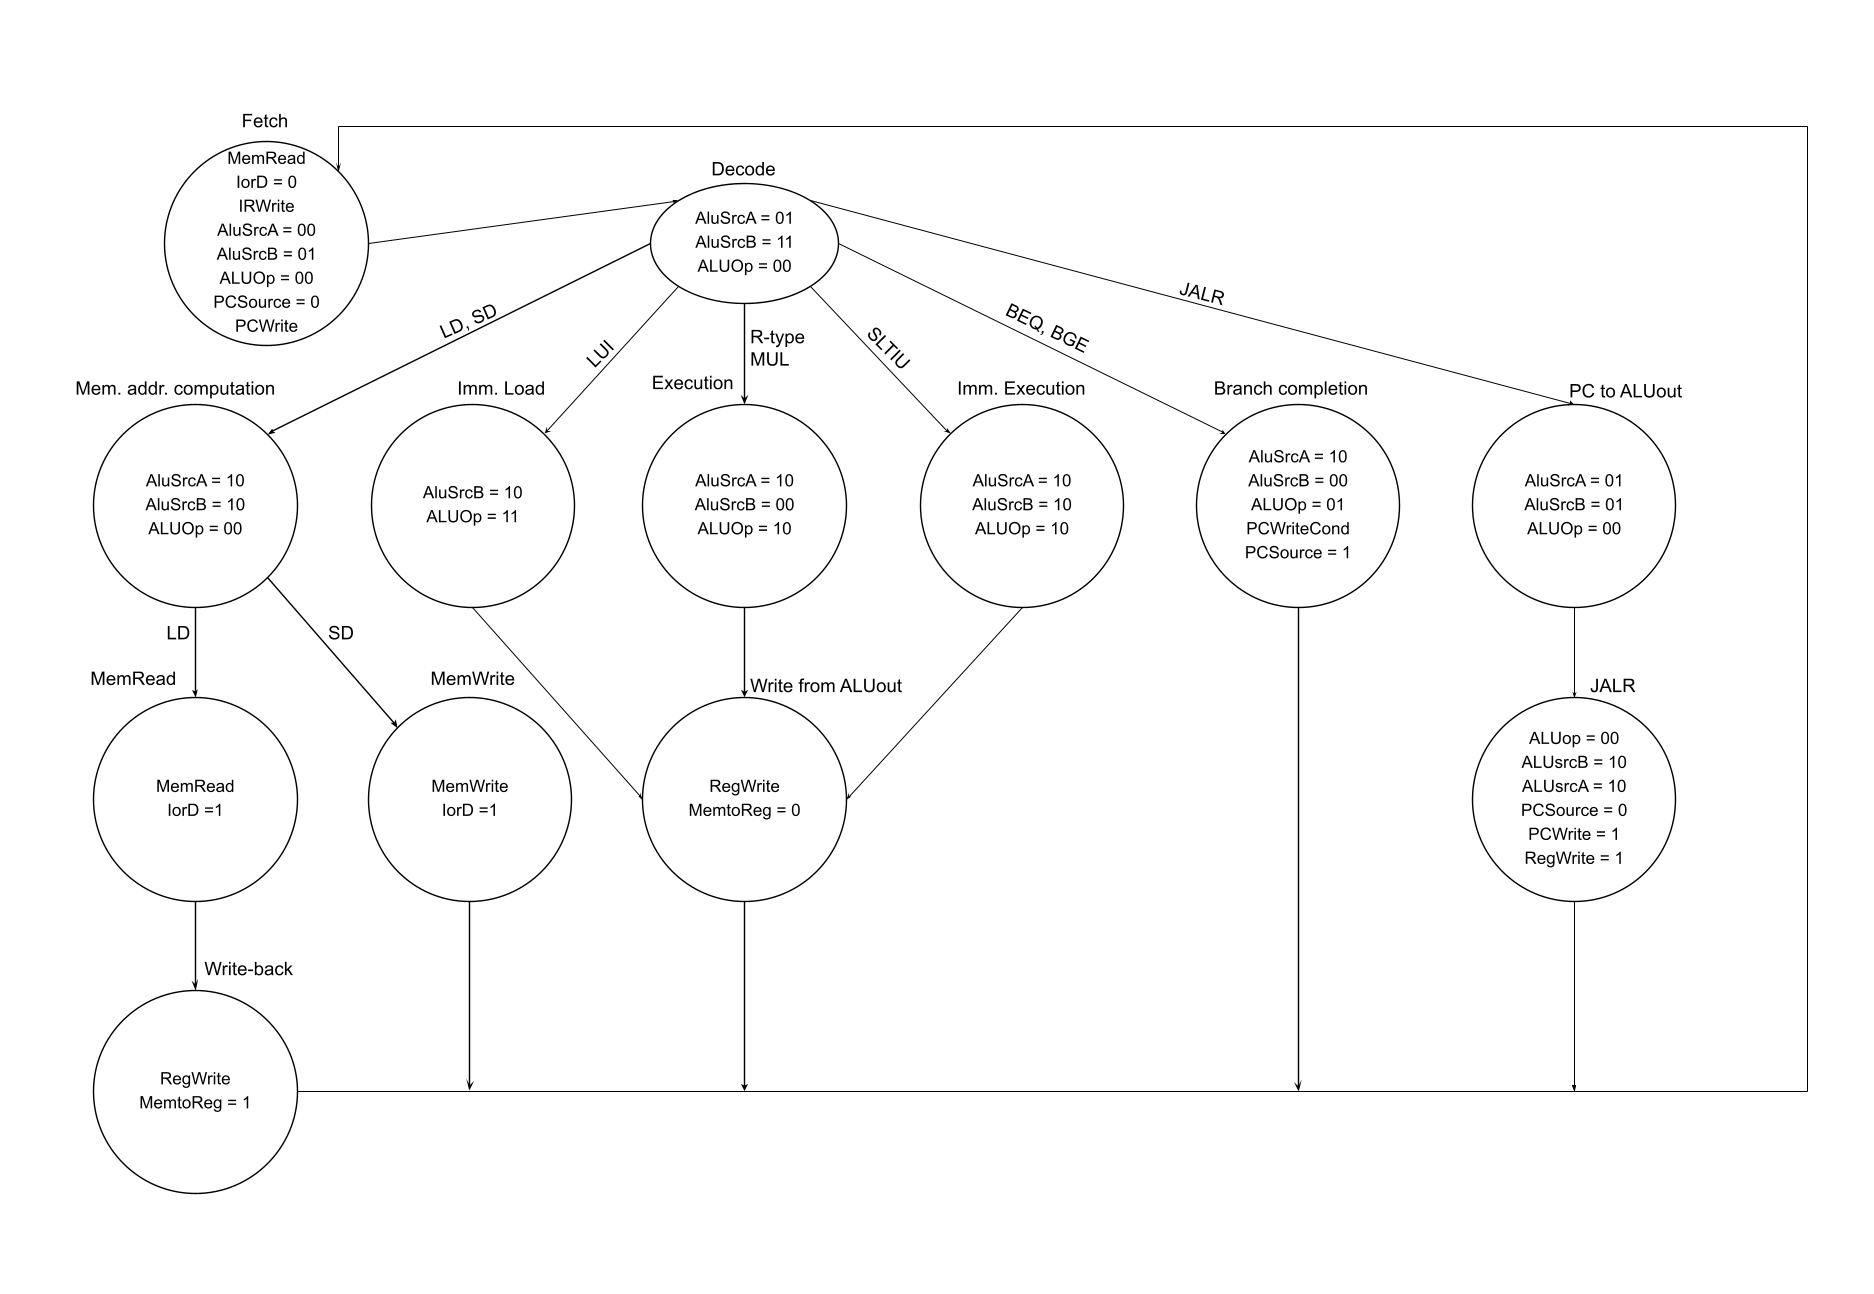
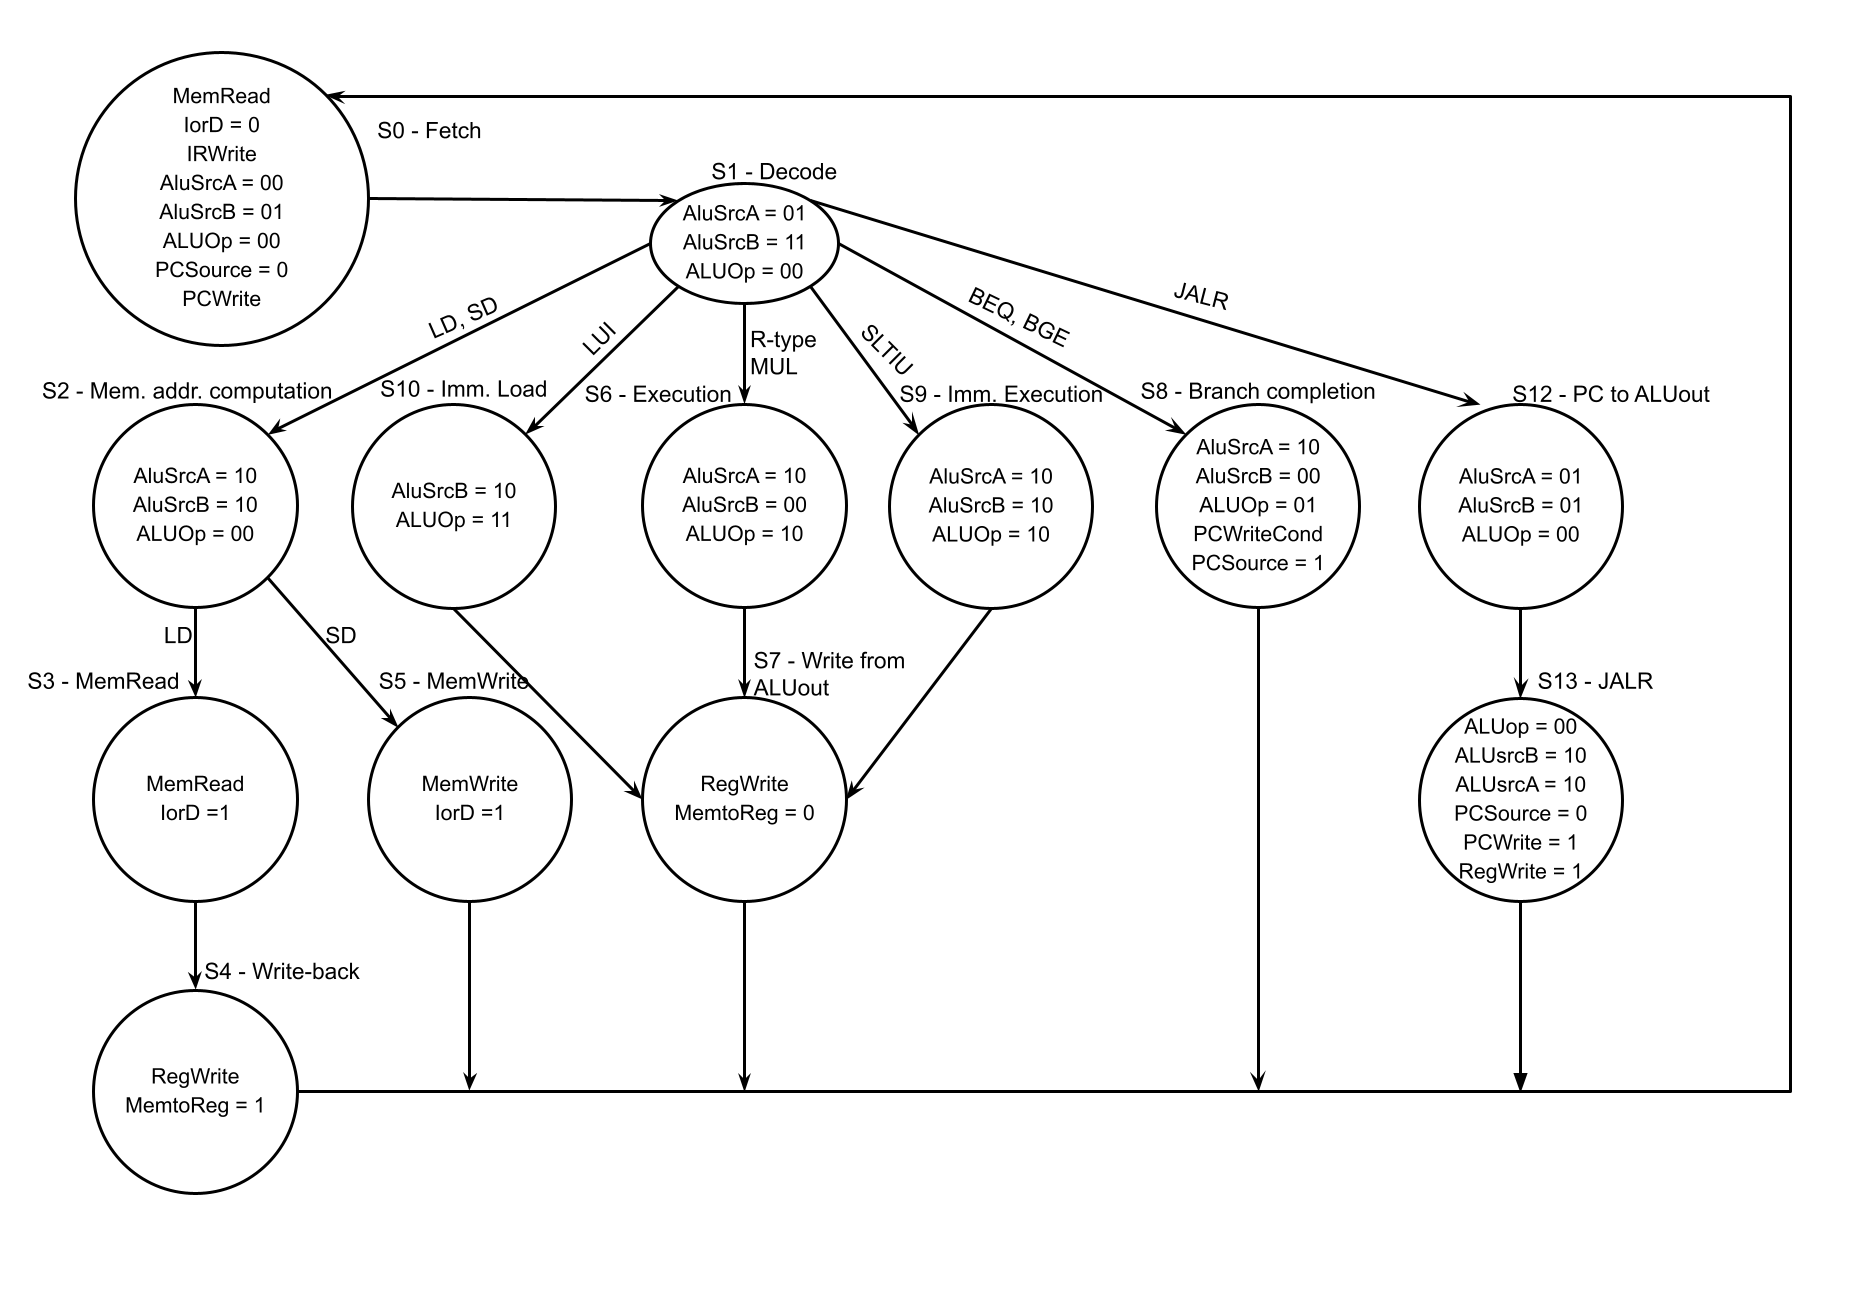
Falta imagens

diff --git a/relatorio-multiciclo.md b/relatorio-multiciclo.md
@@ -1,0 +1,65 @@
+# Multiciclo
+
+## Mapa de Estados
+
+![Diagrama de Estados Multiciclo](Multiciclo.png)
+
+---
+
+### 1. JALR – jalr rd, imm(rs1)
+
+- **Opcode**: 0x67, formato I.
+- **Fluxo de Estados**: S0 (Fetch) → S1 (Decode) → S12 (PC to ALUout) → S13 (Jump & Link) → S0.
+
+O JALR necessita: desviar para rs1 + imm e salvar PC + 4 em rd.
+
+- **Ciclo 1 (S12 – 0x0500 - novo)**: A ALU soma OldPC com 4 e armazena o resultado em ALU Out, já que, durante a execução de uma instrução, PC é o endereço da próxima instrução.
+- **Ciclo 2 (S13 – 0x0A82 - novo)**: A ALU calcula o endereço de destino rs1 + imm (ALUSrcA=10, ALUSrcB=10, ALUop=00). A saída direta da ALU tem seu bit menos significativo zerado e é gravada no PC (PCSource=0, PCWrite=1). Simultaneamente, a escrita no banco de registradores é habilitada (RegWrite=1, MemtoReg=0), gravando em rd o valor contido em ALU Out, que é o endereço da próxima instrução.
+
+Foi conectado o sinal de enable de PC com o sinal enable de OldPC, para que OldPC atualize seu valor apenas quando PC atualizar.
+
+Para zerar o bit menos significativo foi criado um pequeno circuito (postALU) para evitar poluir o datapath principal.
+
+---
+
+### 2. BGE – bge rs1, rs2, imm
+
+- **Opcode**: 0x63, funct3=101, formato B.
+- **Fluxo de Estados**: S0 (Fetch) → S1 (Decode) → S8 (Branch Completion) → S0.
+
+Reaproveita o caminho da instrução BEQ. No caminho de dados, apenas a ALU foi modificada com a adição de uma operação de comparação "maior ou igual" que tem o resultado invertido para que zero indique verdadeiro. A escolha do uso desta operação ocorre através dos bits de func3 e funct7 da instrução. O cálculo do endereço do desvio (OldPC + (imm << 1)) já é calculado no estado **S1** e encontra-se armazenado em ALU Out.
+
+---
+
+### 3. LUI – lui rd, imm20
+
+- **Opcode**: 0x37, formato U.
+- **Fluxo de Estados**: S0 (Fetch) → S1 (Decode) → S10 (Imm. Load) → S7 (Writeback ALU) → S0.
+
+Carrega o imediato de 20 bits deslocado 12 posições à esquerda no registrador rd.
+
+- **Ciclo 1 (S10 – 0x3800 - novo)**: O imediato do tipo U é selecionado na entrada B da ALU (ALUSrcB=10). Com ALUop=11, a ALU_Control seleciona a operação "passa B" (15) da ALU. O valor é armazenado em ALU Out.
+- **Ciclo 2 (S7 – 0x0080)**: Reaproveitado o write-back padrão da ALU, gravando ALU Out em rd.
+
+O alinhamento dos 12 bits inferiores com zeros é realizado estaticamente no módulo ImmGen (formato U).
+
+---
+
+### 4. MUL – mul rd, rs1, rs2
+
+- **Opcode**: 0x33, funct3=000, funct7=0000001, formato R.
+- **Fluxo de Estados**: S0 (Fetch) → S1 (Decode) → S6 (R-Type Execution) → S7 (Writeback ALU) → S0.
+
+Por ser uma instrução simples de tipo R, compartilha exatamente o fluxo de estados padrão para essas instruções: execução no estado **S6** (0x2200) e escrita no estado **S7** (0x0080).
+
+---
+
+### 5. SLTIU – sltiu rd, rs1, imm12
+
+- **Opcode**: 0x13, funct3=011, formato I.
+- **Fluxo de Estados**: S0 (Fetch) → S1 (Decode) → S9 (Imm. Execution) → S7 (Writeback ALU) → S0.
+
+Realiza a comparação sem sinal entre rs1 e o imediato estendido com sinal: se rs1 é menor que o imediato, grava 1 em rd; caso contrário, 0.
+
+- **Ciclo 1 (S9 – 0x2A00)**: O operando A recebe rs1 (ALUSrcA=10) e o operando B recebe o imediato estendido via ImmGen (ALUSrcB=10), com ALUop=10. A ALU_Control decodifica funct3=011 e seleciona o código 4 na ALU.
+- **Ciclo 2 (S7 – 0x0080)**: Write-back padrão gravando o resultado de ALU Out em rd.
